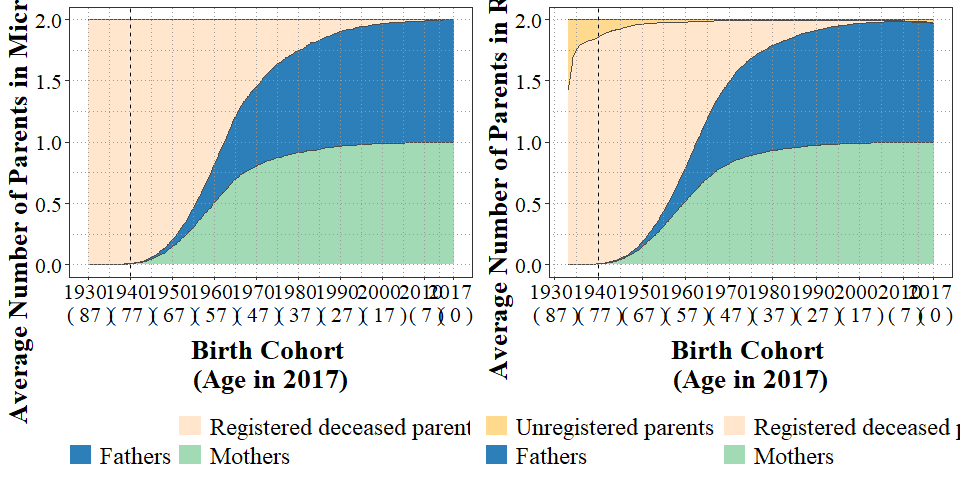
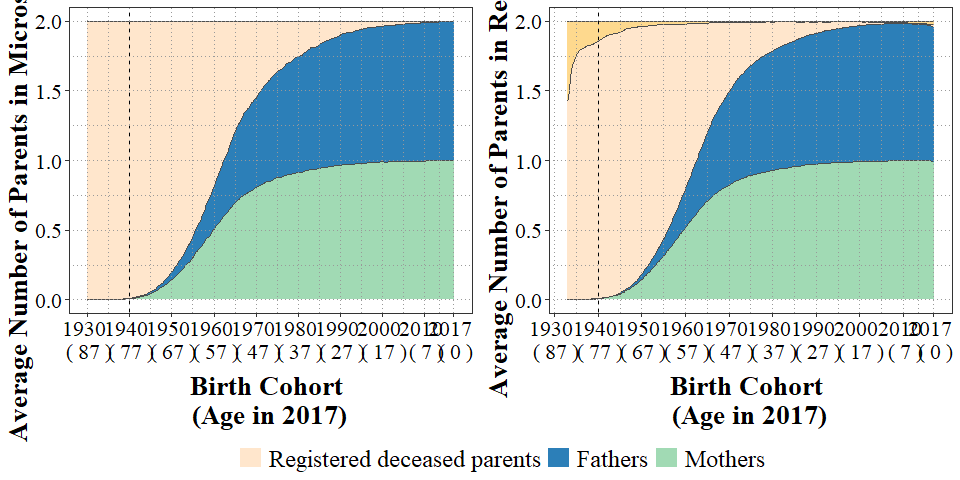
Update all plots to combine legends

diff --git a/3_Compare_Figures.md b/3_Compare_Figures.md
@@ -3,7 +3,7 @@ estimates on micro-level data on kin relations for the Swedish
 population
 ================
 …
-2024-06-03
+2024-07-11
 
 #### Fig. 1b: Average number of living and dead grandchildren in 2017 by sex and birth cohort. Microsimulation - SOCSIM (left) vs Registers - Swedish Kinship Universe (right)
 
